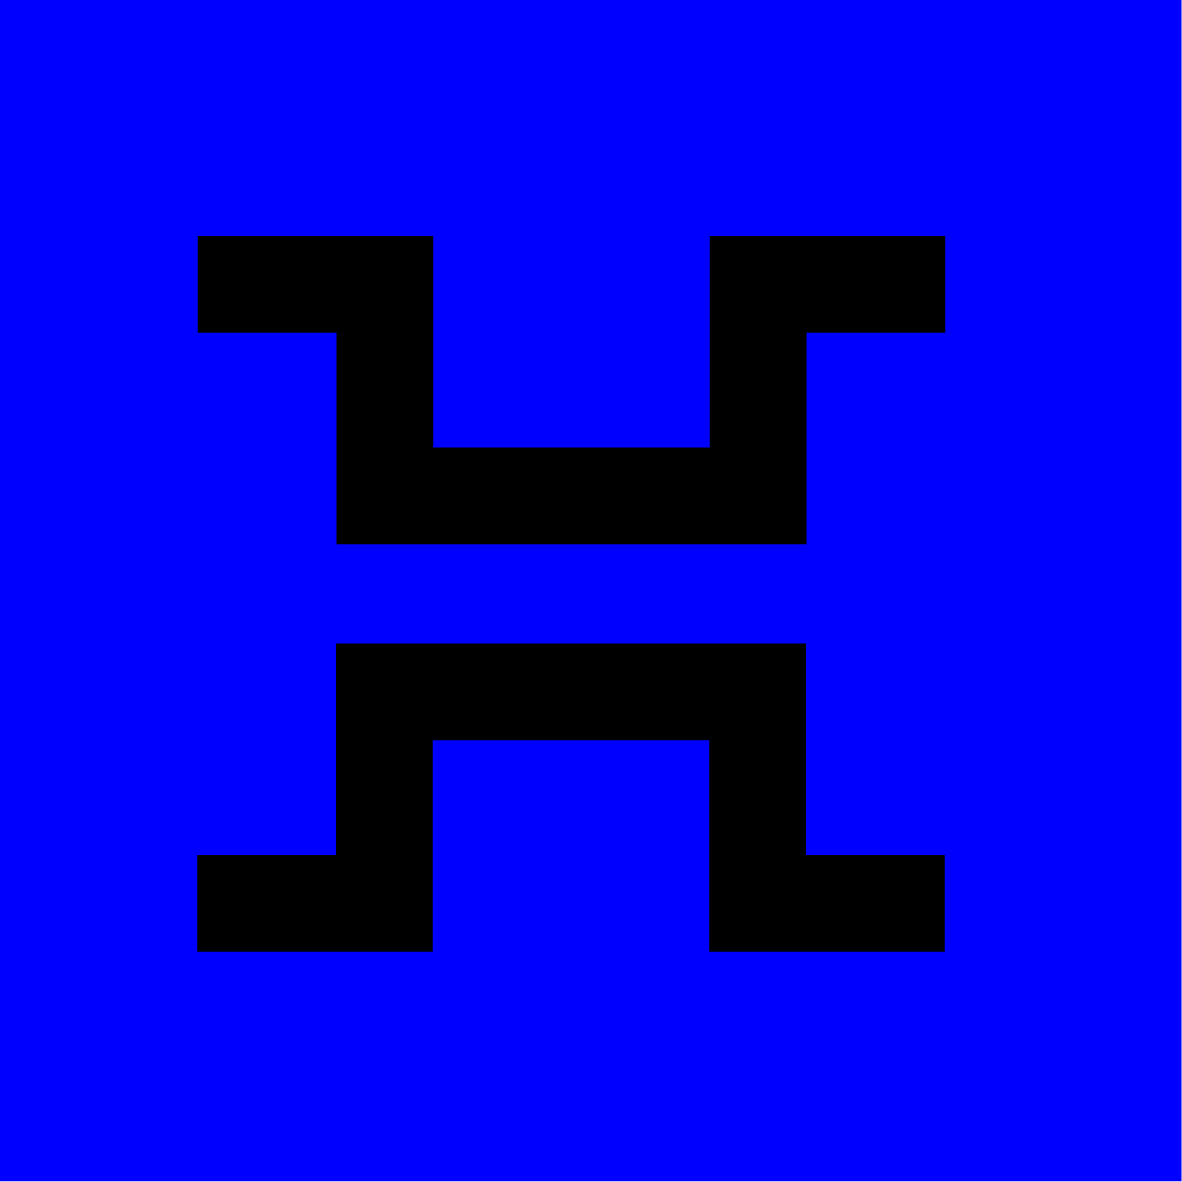
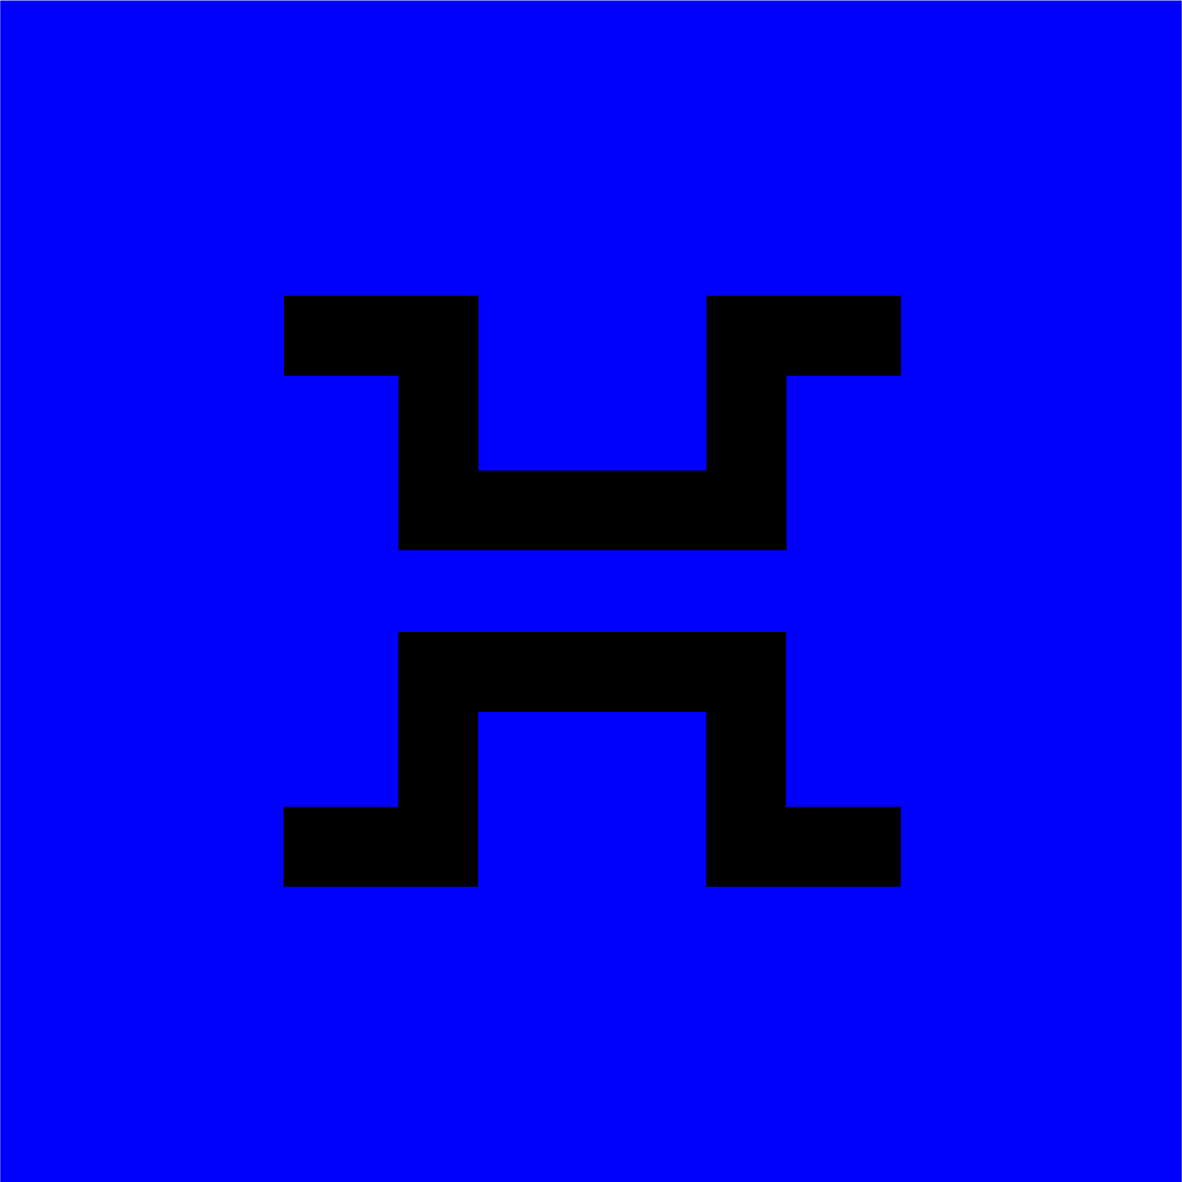
portfolio

Changed region(s): [[0.1523, 0.5178, 0.8223, 0.8223], [0.1523, 0.1827, 0.8223, 0.4873]]

diff --git a/css/lettering.css b/css/lettering.css
@@ -210,6 +210,13 @@ img {
     background-repeat: no-repeat;
     background-size:contain;
 }
+.item3 {
+    background-image:url("../contents/lettering/h.png");
+    background-repeat: no-repeat;
+    background-size:contain;
+    background-color:blue;
+    
+}
 /* 이 부분은 나중에 js로 변경*/
 .container div:hover {
     filter: invert(100%);
@@ -229,5 +236,5 @@ img {
     display: block;
     border-bottom: black;
     padding: 4% 20%;
-    margin-top: 8%
+    margin-top: 4%
 }

diff --git a/css/style.css b/css/style.css
@@ -223,5 +223,5 @@ img {
     display: block;
     border-bottom: black;
     padding: 4% 20%;
-    margin-top: 8%
+    margin-top: 4%
 }
